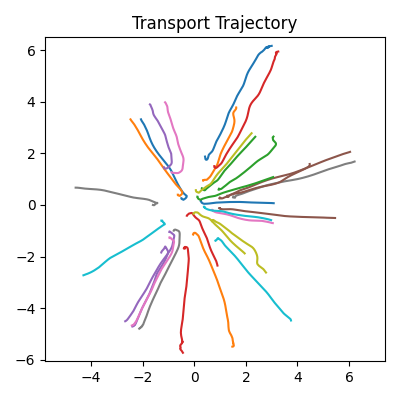
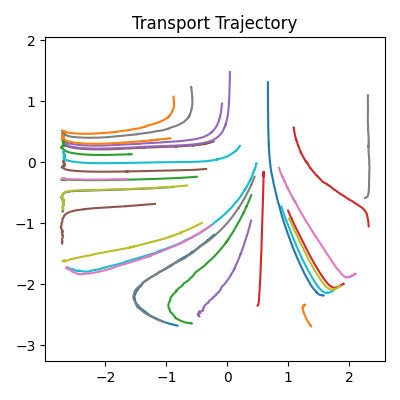
Add hopt for rank and basis dim, along with optimal results

diff --git a/tutorial/tutorial_rectified_flow_with_neural_network.py b/tutorial/tutorial_rectified_flow_with_neural_network.py
@@ -149,8 +149,8 @@ class MLP(nn.Module):
 
 
 class RectifiedFlowTT:
-    def __init__(self, basis_degree, limits, data_dim, ranks):
-        basis_degrees = [basis_degree] * (data_dim + 1)  # hotfix by charles that made the GMM work
+    def __init__(self, basis_degrees, limits, data_dim, ranks):
+        # basis_degrees = [basis_degree] * (data_dim + 1)  # hotfix by charles that made the GMM work
         # ranks = [1] + [tt_rank] * data_dim + [1]
         domain = [list(limits) for _ in range(data_dim)] + [[0, 1]]
         print("Generating Orthopoly Func.(This might take a couple of secs)")
@@ -230,14 +230,16 @@ def train_rectified_flow_tt(rectified_flow_tt: RectifiedFlowTT, x0, x1, reg_coef
 def hopt_objective(args):
     r1 = args['r1']
     r2 = args['r2']
+    d0 = args['d0']
+    d1 = args['d1']
+    d2 = args['d2']
     print(f"Creating a RecFlow TT object with r={(r1, r2)}")
     ranks = [1] + [r1, r2] + [1]
-    basis_degree = 30
     limits = (-20, 20)
-    model = RectifiedFlowTT(ranks=ranks, basis_degree=basis_degree, data_dim=data_dim, limits=limits)
+    model = RectifiedFlowTT(ranks=ranks, basis_degrees=[d0, d1, d2], data_dim=data_dim, limits=limits)
     print("training tt-recflow")
-    reg_coeff = 1e-20
-    n_itr = 40
+    reg_coeff = 1e-10
+    n_itr = 20
     tol = 5e-10
     samples_loss_ = SamplesLoss(loss="sinkhorn")
     x0 = args['init_model'].sample(torch.Size([args['N']]))
@@ -248,7 +250,7 @@ def hopt_objective(args):
     print(f"r={(r1, r2)}")
     train_rectified_flow_tt(rectified_flow_tt=model, x0=x0, x1=x1_train, reg_coeff=reg_coeff,
                             iterations=n_itr, tol=tol)
-    gen_sample = model.sample_ode(z0=initial_model.sample(torch.Size([n_samples])), N=1000)[-1]
+    gen_sample = model.sample_ode(z0=args['init_model'].sample(torch.Size([n_samples])), N=2000)[-1]
     gen_sample_filtered = filter_tensor(x=gen_sample)
     gen_sinkhorn = samples_loss_(x1_test, gen_sample_filtered).item()
     print(f"with r = {(r1, r2)}gen_sinkhorn value = {gen_sinkhorn}")
@@ -265,13 +267,16 @@ def hopt_objective(args):
 
 def tt_recflow_hopt(init_model: Distribution, target_dataset_name: str):
     # https://github.com/hyperopt/hyperopt/issues/835
-    space = {'r1': hp.randint('r1', 5, 10),
-             'r2': hp.randint('r2', 5, 10),
+    space = {'r1': hp.randint('r1', 1, 10),
+             'r2': hp.randint('r2', 1, 10),
+             'd0': hp.randint('d0', 10, 30),
+             'd1': hp.randint('d1', 10, 30),
+             'd2': hp.randint('d2', 10, 30),
              'init_model': init_model,
              'dataset_name': target_dataset_name,
              'N': 10000}
     trials = Trials()
-    best = fmin(fn=hopt_objective, space=space, algo=tpe.suggest, max_evals=50, trials=trials)
+    best = fmin(fn=hopt_objective, space=space, algo=tpe.suggest, max_evals=500, trials=trials)
     print(f"Best parameters = {best}")
     print(f"Opt loss = {trials.best_trial['result']['loss']}")
 
@@ -286,6 +291,7 @@ if __name__ == '__main__':
     n_samples = 10000
     data_dim = 2
     model_type = "tt"  # can be nn or tt
+    do_hyperopt = True
     target_dataset_name = "swissroll"
     initial_model = MultivariateNormal(loc=torch.zeros(2), covariance_matrix=torch.eye(2))
     samples_0 = initial_model.sample(torch.Size([n_samples]))
@@ -310,29 +316,46 @@ if __name__ == '__main__':
 
     recflow_model = None
     if model_type == "nn":
-        print("Training nn-recflow")
-        iterations = 10000
-        batch_size = 2048
-        input_dim = 2
-        recflow_model = RectifiedFlowNN(model=MLP(input_dim, hidden_num=100), num_steps=100)
-        optimizer = torch.optim.Adam(recflow_model.model.parameters(), lr=5e-3)
+        if do_hyperopt:
+            raise NotImplementedError(f"hyperopt with nn is not implemented")
+        else:
+            print("Training nn-recflow")
+            iterations = 10000
+            batch_size = 2048
+            input_dim = 2
+            recflow_model = RectifiedFlowNN(model=MLP(input_dim, hidden_num=100), num_steps=100)
+            optimizer = torch.optim.Adam(recflow_model.model.parameters(), lr=5e-3)
 
-        recflow_model, loss_curve = train_rectified_flow_nn(recflow_model, optimizer, x_pairs, batch_size,
-                                                            iterations)
-        plt.plot(np.linspace(0, iterations, iterations + 1), loss_curve[:(iterations + 1)])
-        plt.title('Training Loss Curve')
-        plt.savefig("loss_curve_recflow_nn_1.png")
+            recflow_model, loss_curve = train_rectified_flow_nn(recflow_model, optimizer, x_pairs, batch_size,
+                                                                iterations)
+            plt.plot(np.linspace(0, iterations, iterations + 1), loss_curve[:(iterations + 1)])
+            plt.title('Training Loss Curve')
+            plt.savefig("loss_curve_recflow_nn_1.png")
 
     elif model_type == "tt":
-        tt_recflow_hopt(init_model=initial_model, target_dataset_name=target_dataset_name)
-        print("tt recflow hopt finished")
-        sys.exit(-1)
+        if do_hyperopt:
+            tt_recflow_hopt(init_model=initial_model, target_dataset_name=target_dataset_name)
+            print("tt recflow hyperopt is finished.\n"
+                  "See console for results.exiting.\n"
+                  "")
+        else:
+            basis_degree = [50, 50, 50]
+            limits = (-20, 20)
+            recflow_model = RectifiedFlowTT(ranks=[1, 5, 9, 1], basis_degrees=basis_degree, data_dim=2, limits=limits)
+            print("training tt-recflow")
+            reg_coeff = 1e-3
+            iterations = 40
+            tol = 5e-10
+            train_rectified_flow_tt(rectified_flow_tt=recflow_model, x0=samples_0, x1=samples_1, iterations=iterations,
+                                    tol=tol, reg_coeff=reg_coeff)
+            print("tt recflow training finished , next step is to generate samples ")
+
     else:
         raise ValueError(f"Unsupported recflow model type : {type(model_type)}")
 
     assert recflow_model is not None, "recflow_model is not initialized or trained"
     print("Drawing generated samples vs actual and trajectories")
-    draw_plot(recflow_model, z0=initial_model.sample([2000]), z1=samples_1.detach().clone(), N=1000)
+    draw_plot(recflow_model, z0=initial_model.sample(torch.Size([2000])), z1=samples_1.detach().clone(), N=2000)
     print("Generating sinkhorn values")
     samples_loss = SamplesLoss(loss="sinkhorn")
     samples_11 = get_target_samples(dataset_name=target_dataset_name, n_samples=n_samples)
@@ -340,12 +363,8 @@ if __name__ == '__main__':
     ref_sinkhorn = samples_loss(samples_11, samples_12)
     print(f"ref sinkhorn value = {ref_sinkhorn}")
 
-    generated_sample = recflow_model.sample_ode(z0=initial_model.sample(torch.Size([n_samples])), N=1000)[-1]
+    generated_sample = recflow_model.sample_ode(z0=initial_model.sample(torch.Size([n_samples])), N=2000)[-1]
     generated_sample_filtered = filter_tensor(x=generated_sample)
-    max_ = torch.max(generated_sample_filtered, dim=0)
-    min_ = torch.min(generated_sample_filtered, dim=0)
-    print(f"max = {max_}")
-    print(f"min = {min_}")
     gen_sinkhorn_1 = samples_loss(samples_11, generated_sample_filtered)
     gen_sinkhorn_2 = samples_loss(samples_12, generated_sample_filtered)
     gen_sinkhorn_avg = (gen_sinkhorn_1 + gen_sinkhorn_2) / 2.0
@@ -357,8 +376,44 @@ if __name__ == '__main__':
 """
 Results Log
 ------------------
+Best so far 
+***
+100%|██████████| 500/500 [10:10:10<00:00, 73.22s/trial, best loss: 0.16953713699778644]
+Best parameters = {'d0': 20, 'd1': 26, 'd2': 27, 'r1': 8, 'r2': 2}
+Opt loss = 0.16953713699778644
+tt recflow hyperopt is finished.
+See console for results.exiting.
+____________________________________
 100%|██████████| 50/50 [3:16:23<00:00, 235.68s/trial, best loss: 0.183088865746133]
 Best parameters = {'r1': 5, 'r2': 9}
 Opt loss = 0.183088865746133
 tt recflow hopt finished
+------------------
+A Training with the following parameters 
+
+recflow_model = RectifiedFlowTT(ranks=[1, 5, 9, 1], basis_degree=basis_degree, data_dim=2, limits=limits)
+            print("training tt-recflow")
+            
+reg_coeff = 1e-3
+iterations = 20
+tol = 5e-5
+            
+generated sinkhorn 1 = 0.25840122119959386
+generated sinkhorn 2 = 0.23570882554678696
+generated sinkhorn avg = 0.2470550233731904
+Finished
+-------------------
+Other runs : 
+***
+with r = (6, 13)gen_sinkhorn value = 0.45104844149763473
+100%|██████████| 50/50 [8:09:32<00:00, 587.46s/trial, best loss: 0.30536674621814947]
+Best parameters = {'r1': 6, 'r2': 5}
+Opt loss = 0.30536674621814947
+tt recflow hopt finished
+
+100%|██████████| 3/3 [08:22<00:00, 167.56s/trial, best loss: 0.2513715869687263]
+Best parameters = {'r1': 5, 'r2': 9}
+Opt loss = 0.2513715869687263
+tt recflow hopt finished
+
 """
